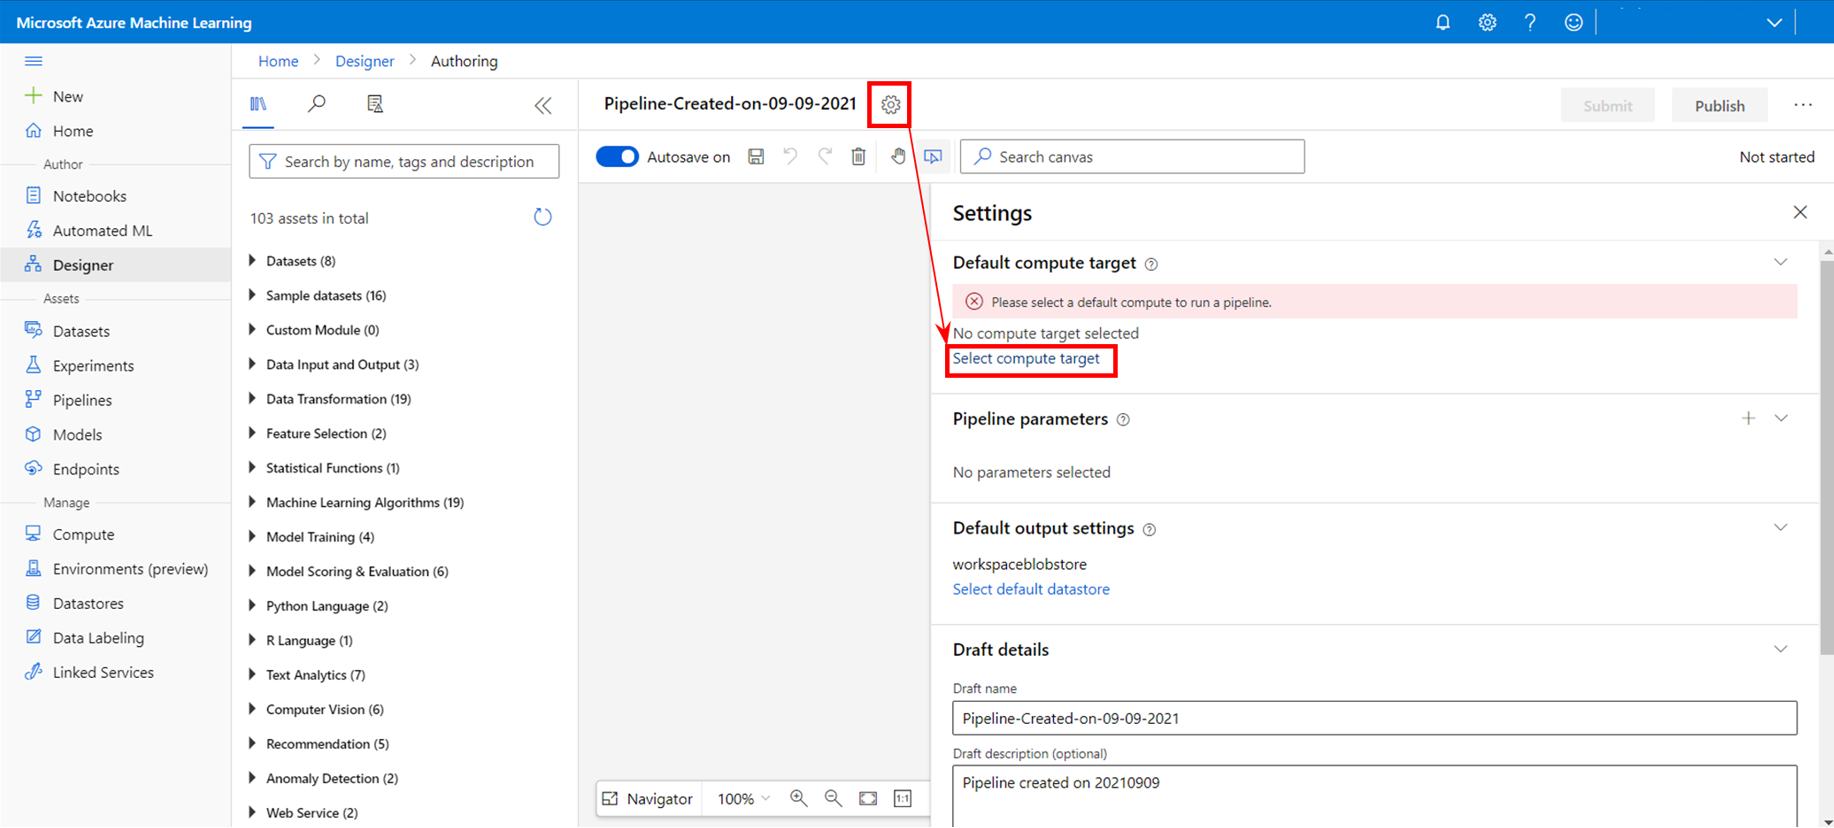
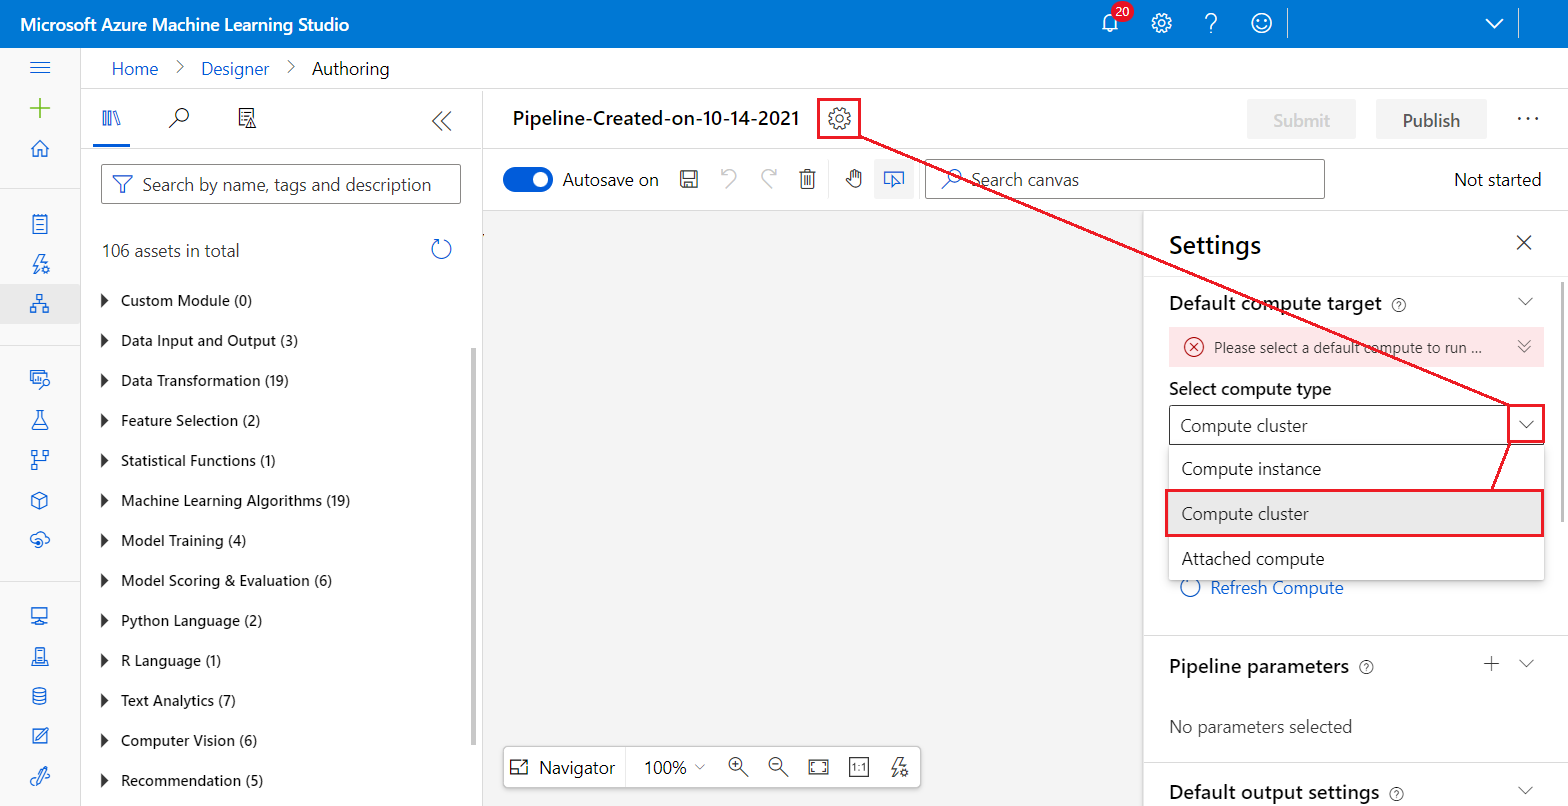
updates to lab-02 based on AML designer updates

diff --git a/day-02/lab-02-pipelines-with-designer.md b/day-02/lab-02-pipelines-with-designer.md
@@ -37,19 +37,20 @@ In Azure machine learning select Designer, to start with a new ML pipeline choos
 ![Create a new no-code pipeline](media/Lab02-create-new-designer-pipeline.png)
 
 
-Select a compute target to run the pipeline.
+Select a compute target to run the pipeline. From **Select compute type** shoose **Compute cluster**.
 
 ![select a compute target](media/Lab02-set-compute-target.png)
 
 
-Using the prompted canvas, select a compute target if already exists, otherwise create a new one with the recommended configuration as follows.
+Then, select a compute cluster from **Azure ML compute cluster** if already exists, otherwise select **Create Azure ML compute cluster** to create a new one with the recommended configuration. using the prompted canvas, click next, name the compute cluster and click create to finish.
 
 
 ![create a new compute target](media/Lab02-create-compute-target.png)
 
 
-Once created you can click on save to use the new compute target. 
+Once created you can select it from **Azure ML compute cluster** to use the new compute cluster. 
 
+![create a new compute target](media/Lab02-select-compute-cluster.png)
 
 ### Task 2 - Import and prepare the data
 
